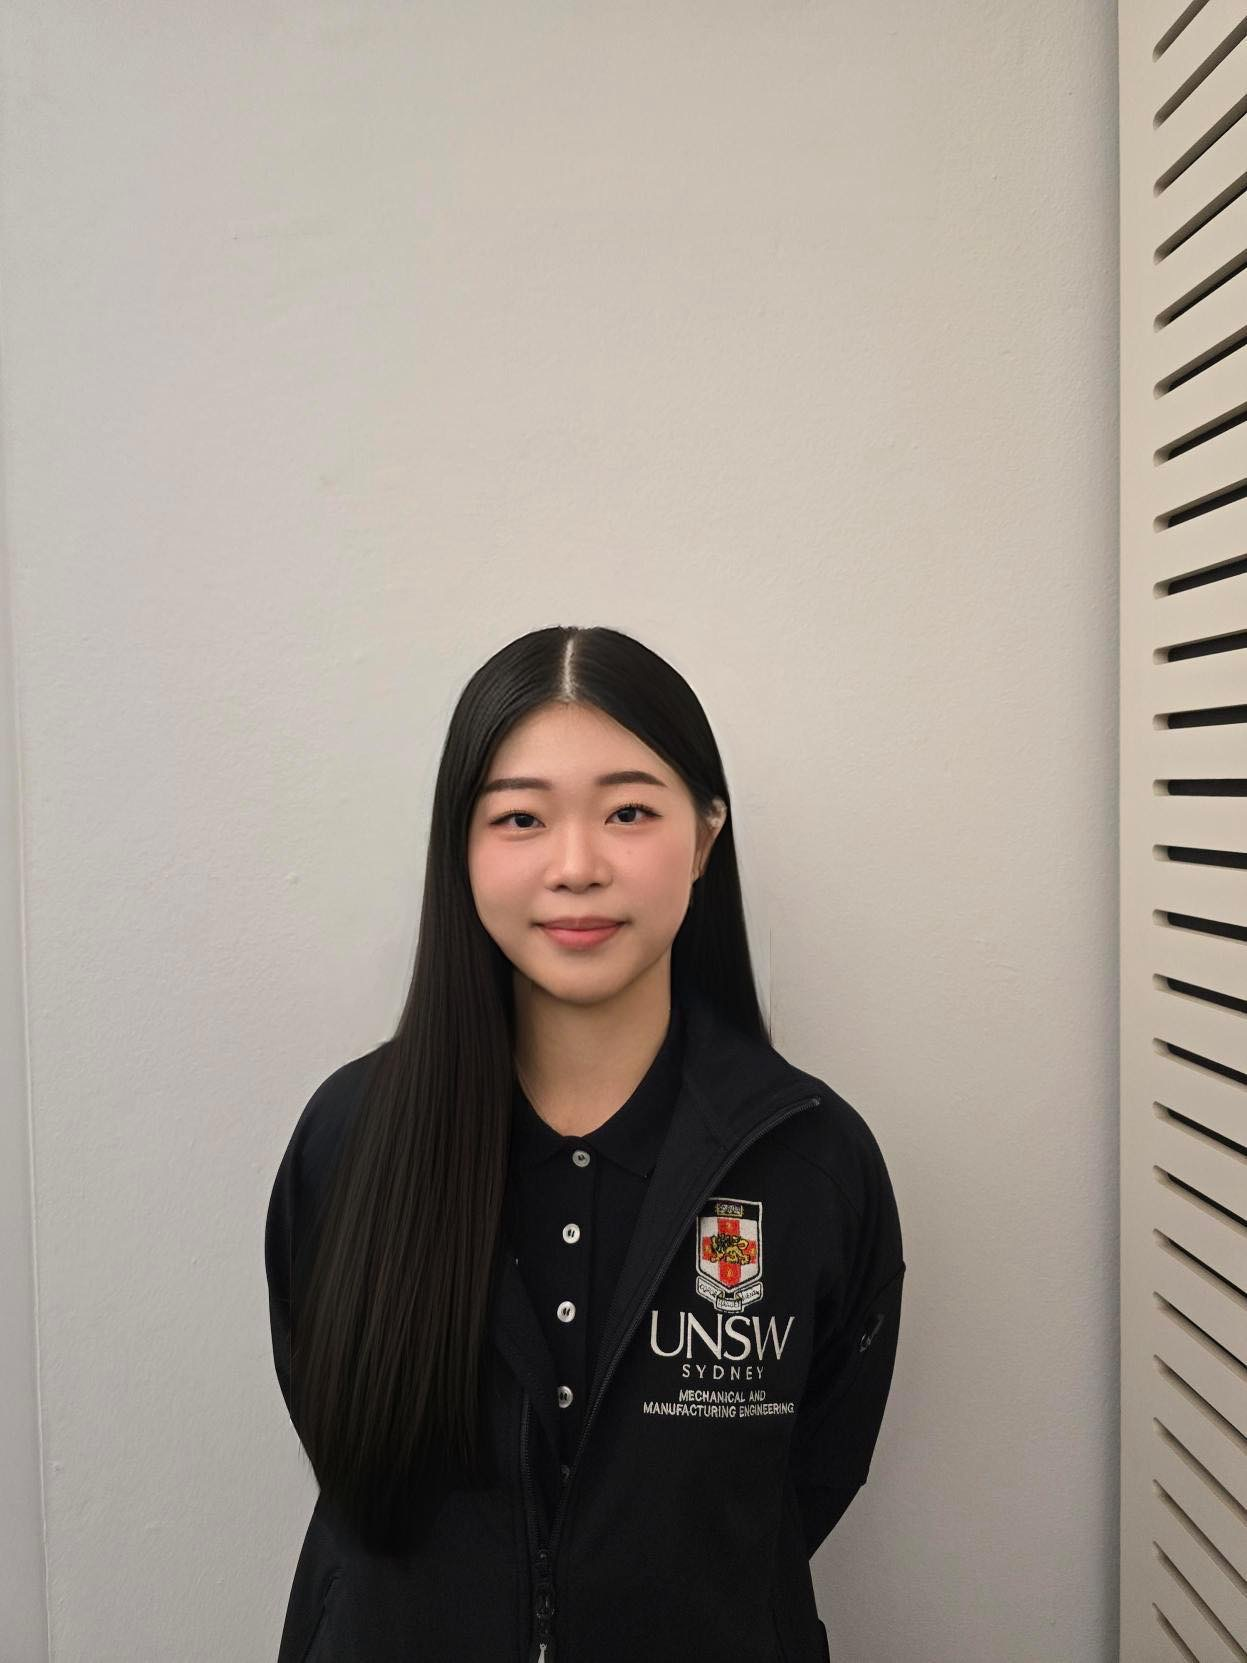
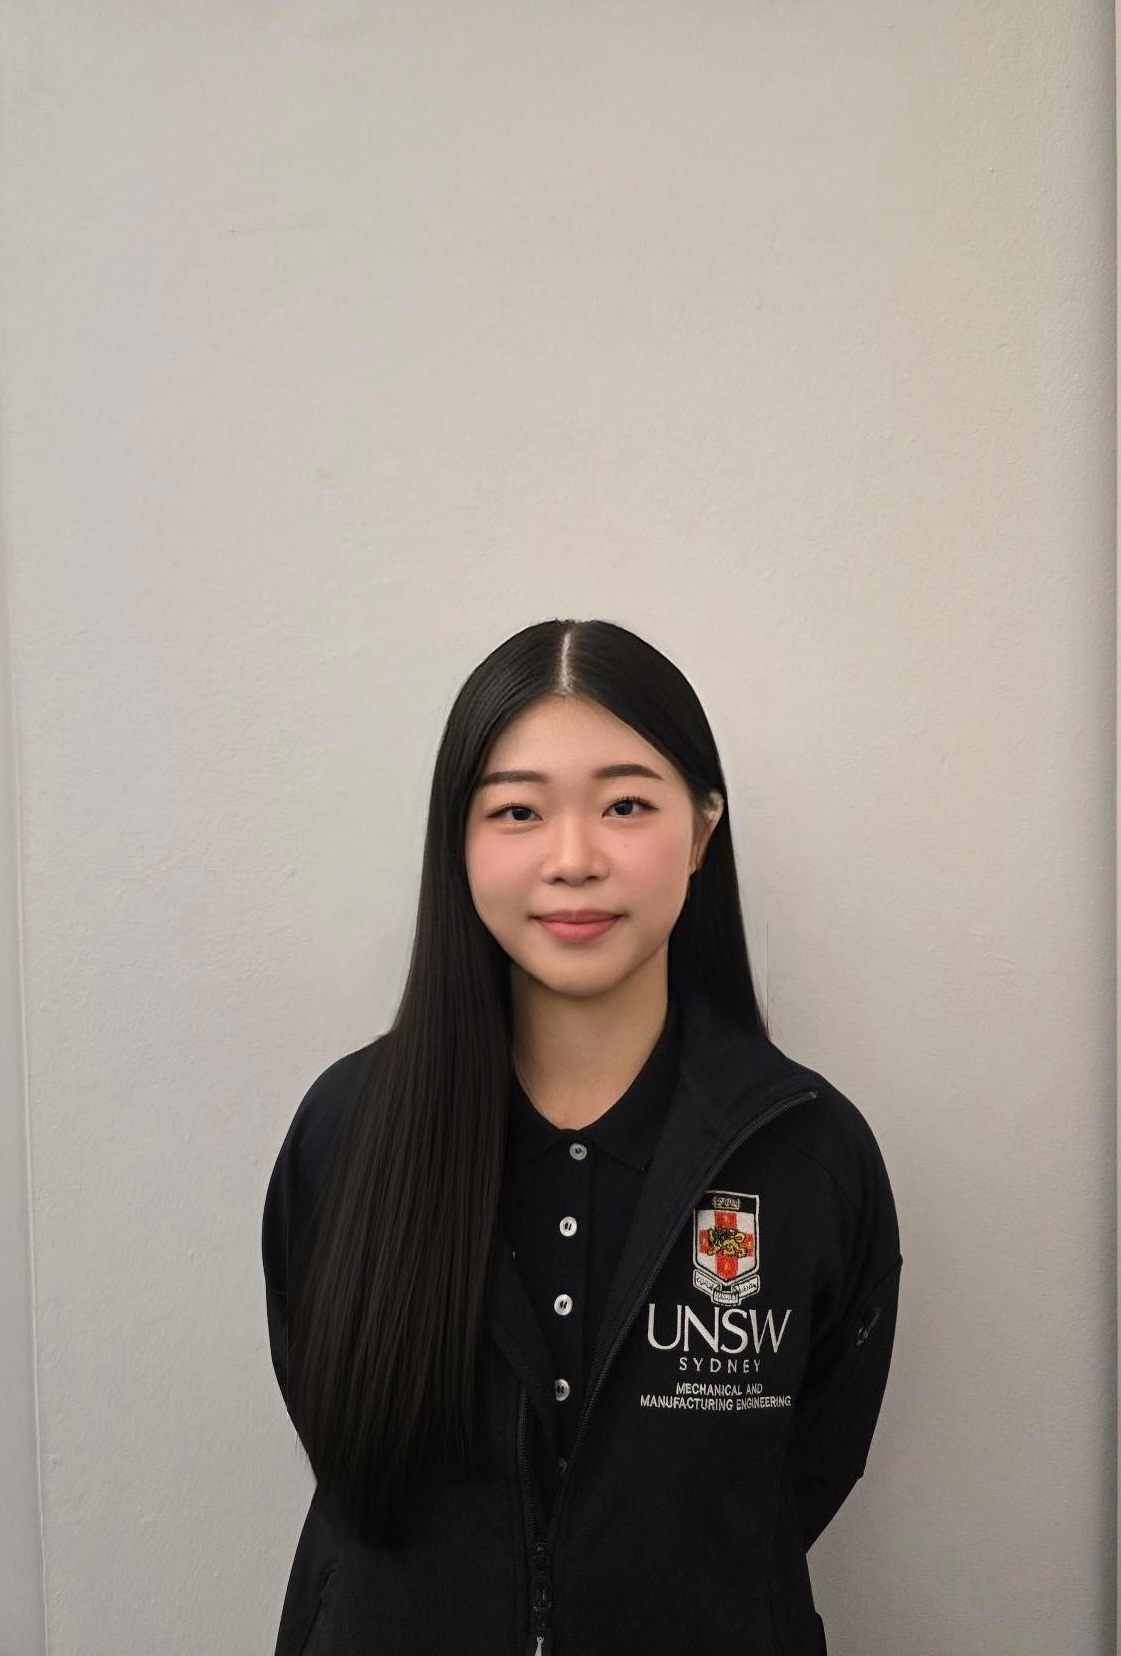
Updated the new executive team

diff --git a/src/pages/Team.jsx b/src/pages/Team.jsx
@@ -31,6 +31,7 @@ import LukeP from '../assets/Profiles/LukeP.jpg'
 import HeathL from '../assets/Profiles/HeathL.jpg'
 import JunX from '../assets/Profiles/JunX.jpg'
 import SiyuanZ from '../assets/Profiles/SiyuanZ.jpg'
+import SophieW1 from '../assets/Profiles/SophieW1.jpg'
 
 export default function Team() {
     return (
@@ -45,12 +46,13 @@ export default function Team() {
             </div>
         </div>
         <div class="flex flex-row flex-wrap items-top justify-center max-w-screen px-24">
-            <Profile image={LongkaiL} name='Longkai Li' position='President' bio='I ❤ planes' />
-            <Profile image={SophieW} name='Sophie Wu' position='Secretary & Grievance Officer' bio='It takes more than one to build a plane, so success is a team effort' />
-            <Profile image={RayH} name='Ray H' position='Treasurer' bio='"Why can&apos;t we attach a rocket booster to the wing?"' />
-            <Profile image={ConnorD} name='Connor Duigan' position='Media and Marketing Officer & Grievance Officer' bio='Getting to apply technical knowledge from courses to build a functional vehicle greatly enhances understanding and helps understand nuances, going from theory to reality is always satisfying.' />
-            <Profile image={TalalT} name='Talal T' position='Relations & Events Officer' bio='DBF FPV is a great place to get involved in drone racing and connect with likeminded students. The sessions are the best part of my week.' />
-            <Profile image={JamesR} name='James R' position='Safety Officer' bio='It is amazing to see everyone&apos;s hard work pay off on fly day, and to know you were a part the plane&apos;s success.' />
+            <Profile image={LongkaiL} name='Longkai L' position='President' bio='I ❤ planes' />
+            <Profile image={PhoebeL} name='Phoebe L' position='Secretary & Grievance Officer' bio='We are a society where you can really develop technical skills you wouldn&apos;t normally learn in your typical uni course. Knowledge that I&apos;ve gained from DBF has translated directly into me being more prepared for my internship with Boeing.' />
+            <Profile image={HeathL} name='Heath L' position='Treasurer' bio='"Why can&apos;t we attach a rocket booster to the wing?"' />
+            <Profile image={SiyuanZ} name='Siyuan Z' position='Media and Marketing Officer' bio='Getting to apply technical knowledge from courses to build a functional vehicle greatly enhances understanding and helps understand nuances, going from theory to reality is always satisfying.' />
+            <Profile image={MuhammadH} name='Muhammad H' position='Relations Officer' bio='DBF FPV is a great place to get involved in drone racing and connect with likeminded students. The sessions are the best part of my week.' />
+            <Profile image={LukeP} name='Luke Pan' position='Events Officer'bio=''/>
+            <Profile image={JamesR} name='James R' position='Safety & Grievance Officer' bio='It is amazing to see everyone&apos;s hard work pay off on fly day, and to know you were a part the plane&apos;s success.' />
         </div>
 
         <div className='bg-sky-100 py-4'>
@@ -58,7 +60,7 @@ export default function Team() {
                 <div className='px-8'>
                     <h1 className="text-5xl py-6 font-bold text-center">Design Build and Fly</h1>
                 </div>
-                <Profile image={PhoebeL} name='Phoebe L' position='Project Director of Skylabs Design Build Fly' bio='We are a society where you can really develop technical skills you wouldn&apos;t normally learn in your typical uni course. Knowledge that I&apos;ve gained from DBF has translated directly into me being more prepared for my internship with Boeing.' />
+                <Profile image={LukeP} name='Luke P' position='Project Director of Skylabs Design Build Fly' bio='' />
             </div>
             
             <div className='px-8'>
@@ -75,7 +77,7 @@ export default function Team() {
                 <div className='px-8'>
                     <h1 className="text-5xl py-6 font-bold text-center">Project VTOL</h1>
                 </div>
-                <Profile image={SophieW} name='Sophie Wu' position='Project Director of Skylabs VTOL' bio='It takes more than one to build a plane, so success is a team effort.' />
+                <Profile image={SophieW1} name='Sophie Wu' position='Project Director of Skylabs VTOL' bio='It takes more than one to build a plane, so success is a team effort.' />
             </div>
             
             <div className='px-8'>
